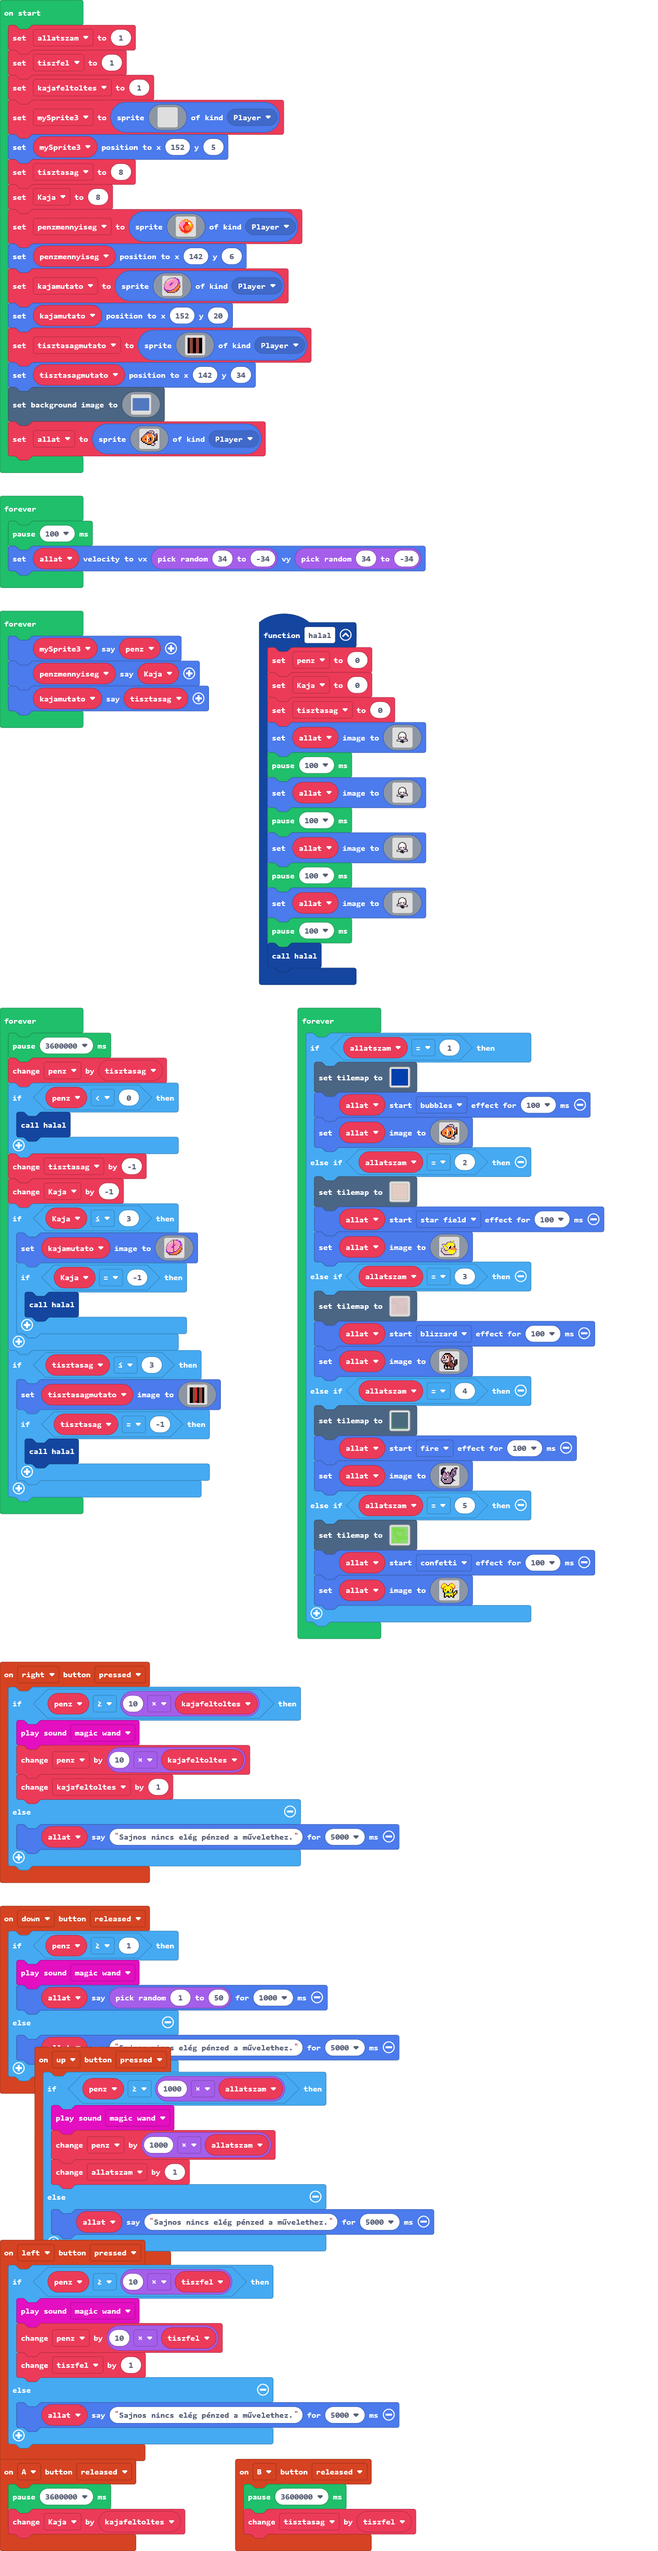
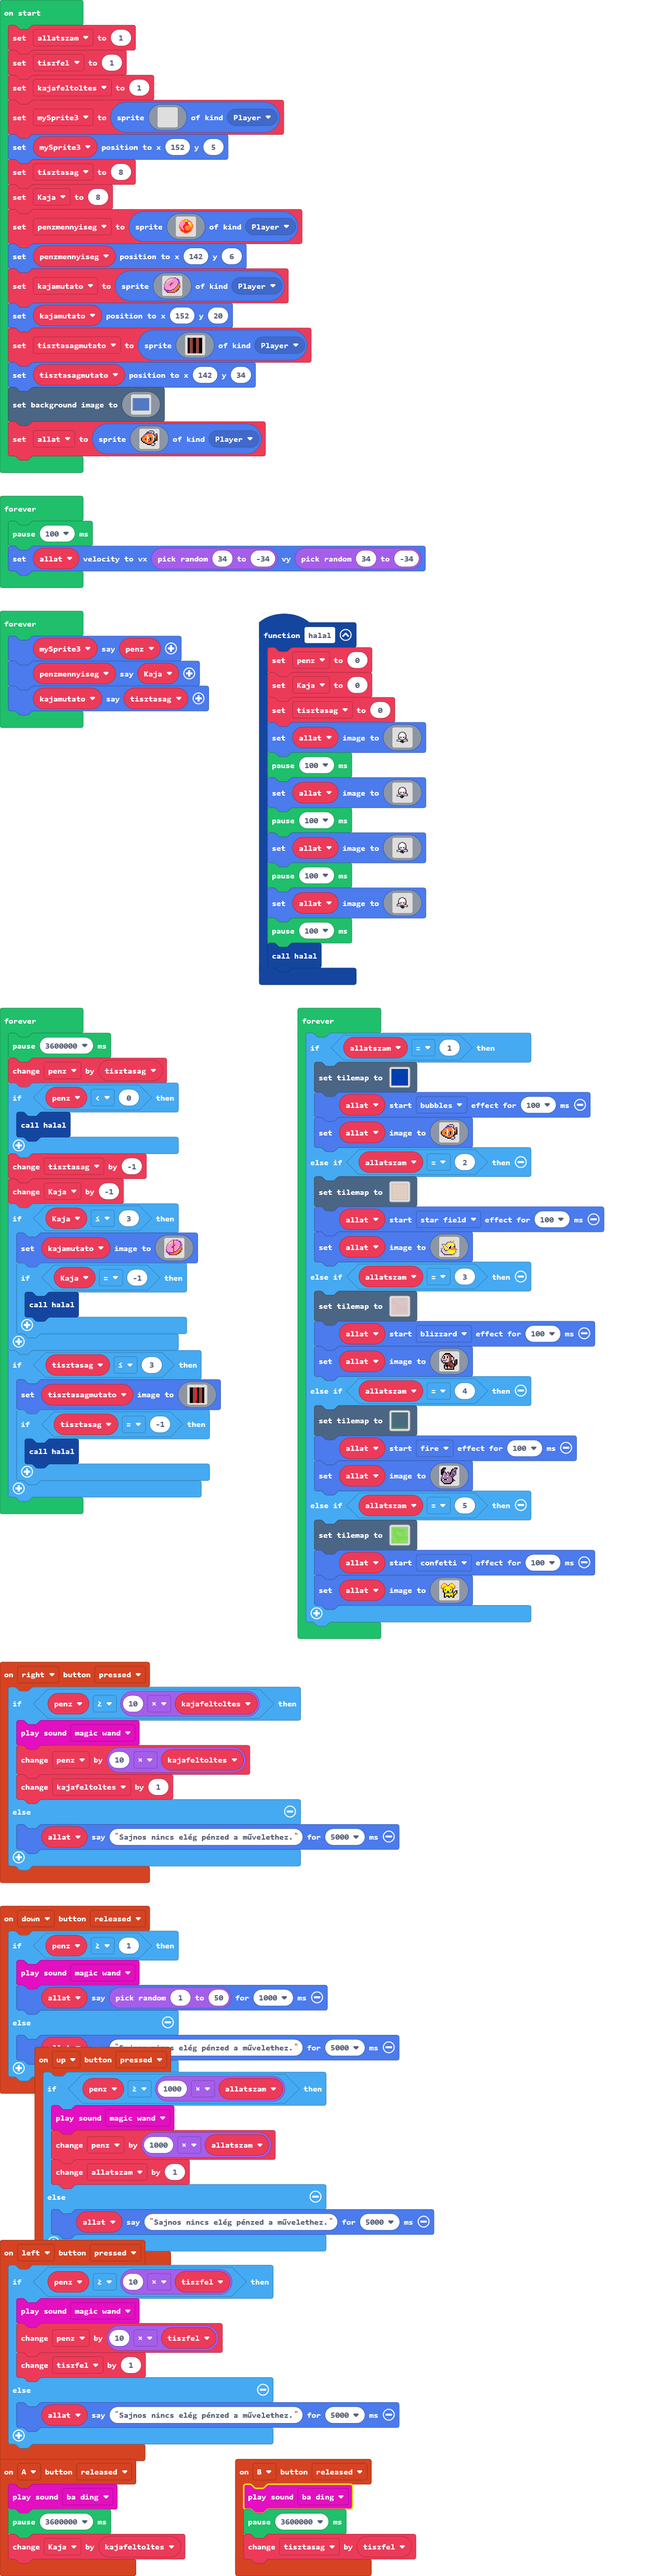
Update main.blocks, main.ts

Changed region(s): [[0.0, 0.0, 0.9242, 0.6554], [0.0, 0.6242, 0.6777, 0.9988], [0.0, 0.3745, 0.3389, 0.593]]

diff --git a/main.ts b/main.ts
@@ -34,6 +34,7 @@ controller.right.onEvent(ControllerButtonEvent.Pressed, function () {
     }
 })
 controller.A.onEvent(ControllerButtonEvent.Released, function () {
+    music.baDing.play()
     pause(3600000)
     Kaja += kajafeltoltes
 })
@@ -152,6 +153,7 @@ function halal () {
     halal()
 }
 controller.B.onEvent(ControllerButtonEvent.Released, function () {
+    music.baDing.play()
     pause(3600000)
     tisztasag += tiszfel
 })
